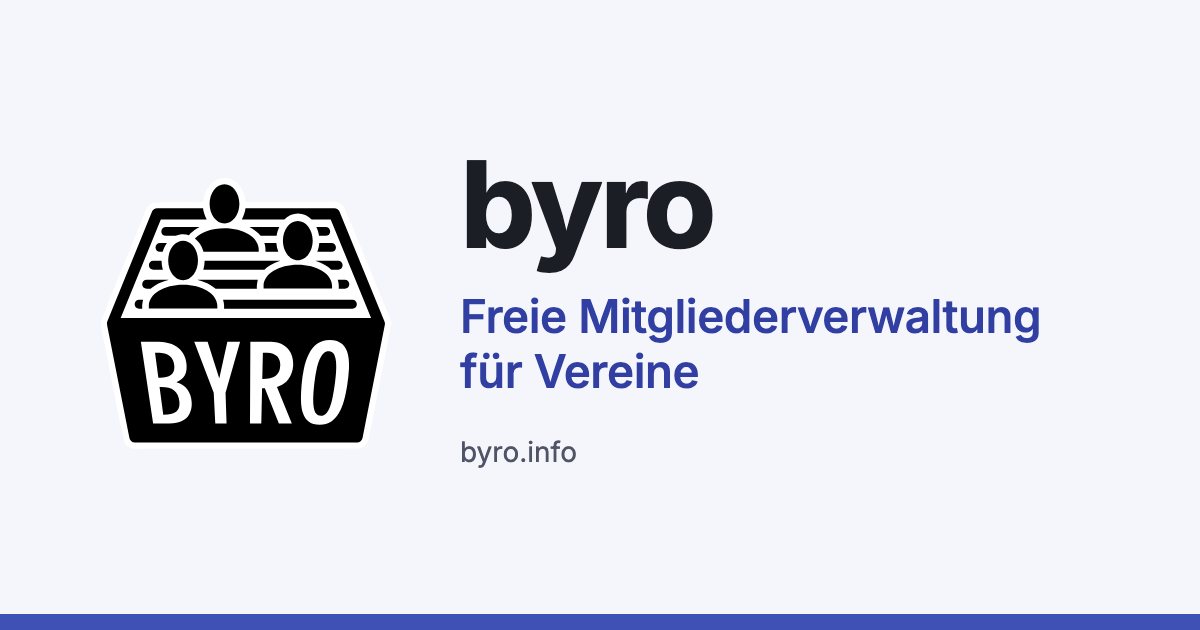
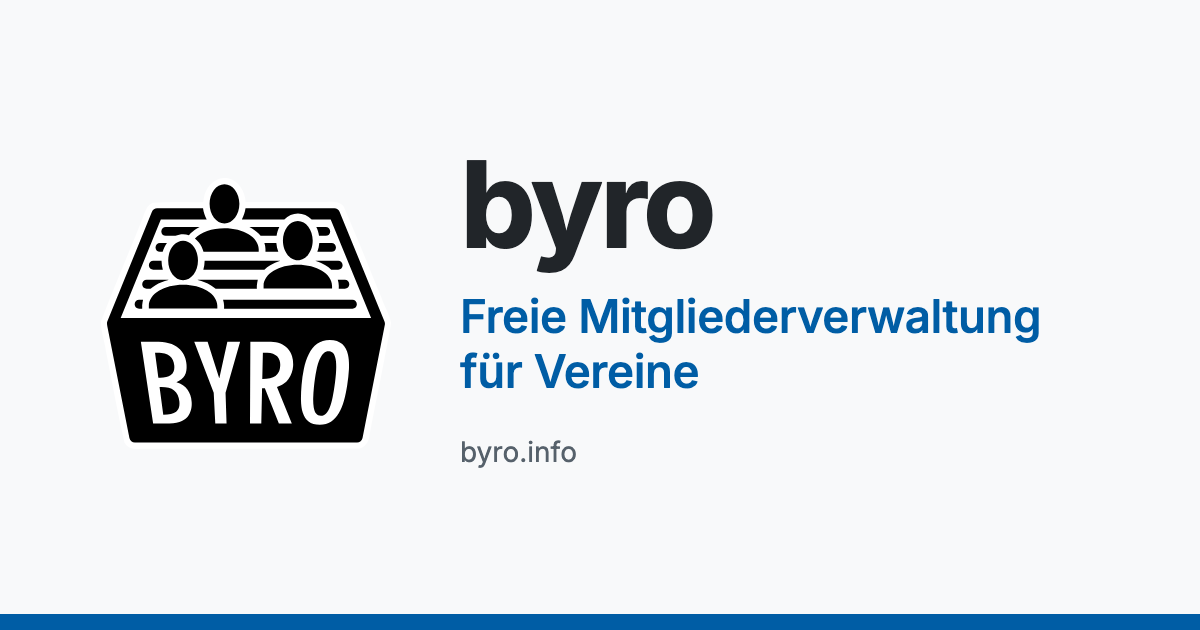
Use the byro color palette
Replace the Zensical default indigo with the colors of the byro design
guide: brand blue #005DA5, the neutral backgrounds, lines and text
colors of the byro server, and the light brand surface for icons and
badges. The dark mode uses the dark variants defined in the same guide.
Primary buttons only get an underline on hover, because the guide does
not define hover colors yet.

Changed region(s): [[0.0, 0.9651, 1.0, 1.0], [0.37, 0.4524, 0.8633, 0.5429], [0.37, 0.573, 0.5858, 0.6333]]

diff --git a/static/css/site.css b/static/css/site.css
@@ -1,4 +1,4 @@
-/* byro website. Colors follow the byro documentation (Zensical, primary "indigo"). */
+/* byro website. Colors follow the byro design guide (docs: Contributing → Design). */
 
 @font-face {
   font-family: "Inter";
@@ -9,18 +9,15 @@
 }
 
 :root {
-  --primary: #4051b5;
-  --primary-dark: #303fa1;
-  --link: #3546a8;
-  --focus: #526cfe;
+  --brand: #005da5; /* primary action backgrounds, white text on top */
+  --link: #005da5; /* links, icons, accents */
   --bg: #ffffff;
-  --bg-alt: #f5f6fb;
-  --surface: #ffffff;
-  --fg: #1c1e26;
-  --fg-muted: #4f5566;
-  --border: #e1e4ef;
-  --icon-bg: #eceefa;
-  --shadow: 0 1px 2px rgb(28 30 38 / 6%), 0 12px 32px rgb(28 30 38 / 10%);
+  --bg-alt: #f8f9fa; /* header and set-off sections */
+  --brand-surface: #ccdfed;
+  --fg: #212529;
+  --fg-muted: #56616b;
+  --border: #dae0e4;
+  --shadow: 0 1px 2px rgb(33 37 41 / 6%), 0 12px 32px rgb(33 37 41 / 10%);
   --radius: 12px;
   --gutter: 16px;
   color-scheme: light dark;
@@ -28,17 +25,13 @@
 
 @media (prefers-color-scheme: dark) {
   :root {
-    --primary: #4051b5;
-    --primary-dark: #5d6cc0;
-    --link: #9aa8f5;
-    --focus: #9aa8f5;
-    --bg: #1b1d24;
-    --bg-alt: #22252e;
-    --surface: #262a34;
-    --fg: #e6e8ef;
-    --fg-muted: #b0b5c4;
-    --border: #363b48;
-    --icon-bg: #2f3550;
+    --link: #74b5e7;
+    --bg: #212529;
+    --bg-alt: #1a1d20;
+    --brand-surface: #17364e;
+    --fg: #f8f9fa;
+    --fg-muted: #adb5bd;
+    --border: #343a40;
     --shadow: 0 1px 2px rgb(0 0 0 / 30%), 0 12px 32px rgb(0 0 0 / 35%);
   }
 }
@@ -106,7 +99,7 @@ a:hover {
 }
 
 :focus-visible {
-  outline: 3px solid var(--focus);
+  outline: 3px solid var(--link);
   outline-offset: 3px;
   border-radius: 4px;
 }
@@ -116,7 +109,7 @@ code {
   font-size: 0.92em;
   padding: 0.1em 0.35em;
   border-radius: 4px;
-  background: var(--icon-bg);
+  background: var(--bg-alt);
 }
 
 .container {
@@ -142,7 +135,7 @@ code {
   top: -100px;
   z-index: 10;
   padding: 0.5rem 1rem;
-  background: var(--surface);
+  background: var(--bg);
   color: var(--link);
   border-radius: 8px;
 }
@@ -154,6 +147,7 @@ code {
 /* Header */
 
 .site-header {
+  background: var(--bg-alt);
   border-bottom: 1px solid var(--border);
 }
 
@@ -244,7 +238,7 @@ code {
   justify-content: center;
   min-height: 2.875rem;
   padding: 0.65rem 1.35rem;
-  border: 2px solid var(--primary);
+  border: 2px solid var(--brand);
   border-radius: 10px;
   font-weight: 600;
   line-height: 1.3;
@@ -253,13 +247,12 @@ code {
 }
 
 .button.primary {
-  background: var(--primary);
+  background: var(--brand);
   color: #fff;
 }
 
-.button.primary:hover {
-  background: var(--primary-dark);
-  border-color: var(--primary-dark);
+.button:hover {
+  text-decoration: underline;
 }
 
 .button.secondary {
@@ -369,7 +362,7 @@ code {
   display: flex;
   flex-direction: column;
   padding: 1.5rem;
-  background: var(--surface);
+  background: var(--bg);
   border: 1px solid var(--border);
   border-radius: var(--radius);
 }
@@ -386,7 +379,7 @@ code {
   height: 2.75rem;
   margin-bottom: 1rem;
   border-radius: 10px;
-  background: var(--icon-bg);
+  background: var(--brand-surface);
   color: var(--link);
 }
 
@@ -456,7 +449,7 @@ code {
 
 .methods li {
   padding: 1rem 1.25rem;
-  background: var(--surface);
+  background: var(--bg);
   border: 1px solid var(--border);
   border-radius: var(--radius);
 }
@@ -475,7 +468,7 @@ code {
   margin-left: 0.4rem;
   padding: 0.05rem 0.55rem;
   border-radius: 999px;
-  background: var(--icon-bg);
+  background: var(--brand-surface);
   color: var(--link);
   font-size: 0.8rem;
   font-weight: 600;
@@ -483,9 +476,9 @@ code {
 
 .note {
   padding: 1.25rem 1.5rem;
-  border-left: 4px solid var(--primary);
+  border-left: 4px solid var(--link);
   border-radius: 0 var(--radius) var(--radius) 0;
-  background: var(--surface);
+  background: var(--bg);
 }
 
 .note p:last-child {

diff --git a/templates/base.html b/templates/base.html
@@ -16,7 +16,7 @@
   <link rel="alternate" hreflang="{{ hreflang }}" href="{{ absolute_url(path) }}">
 {% endfor %}
   <meta name="color-scheme" content="light dark">
-  <meta name="theme-color" content="#4051b5">
+  <meta name="theme-color" content="#005da5">
   <link rel="icon" href="{{ url('assets/img/byro-logo.svg') }}" type="image/svg+xml">
   <link rel="icon" href="{{ url('assets/img/favicon-32.png') }}" sizes="32x32" type="image/png">
   <link rel="apple-touch-icon" href="{{ url('assets/img/apple-touch-icon.png') }}">
